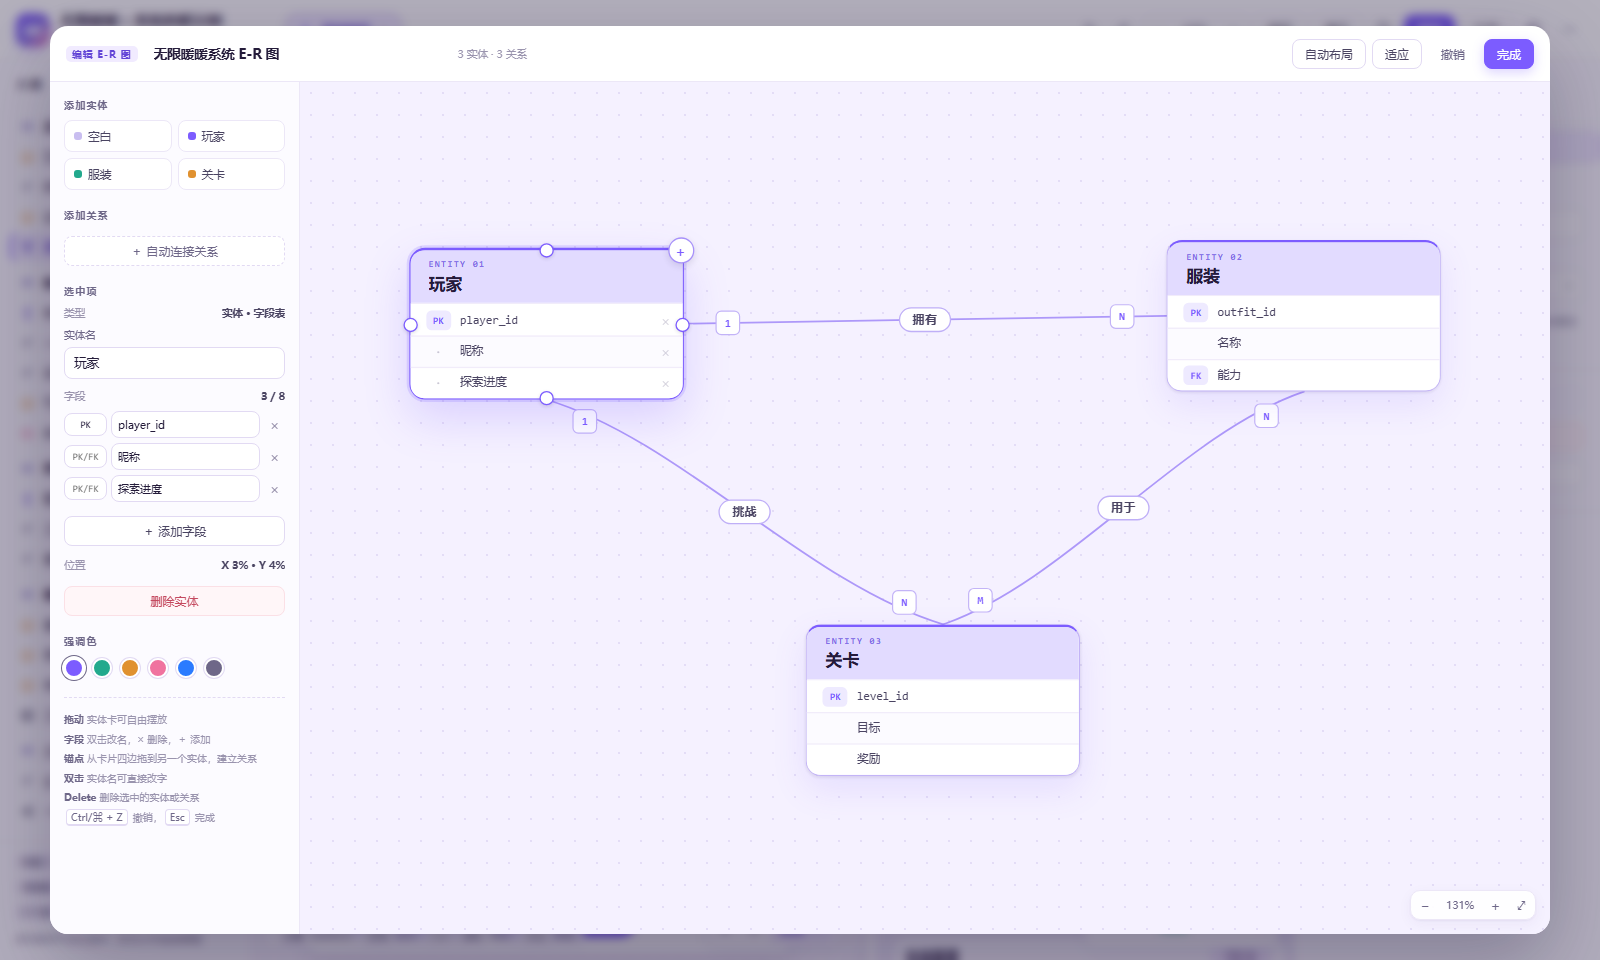
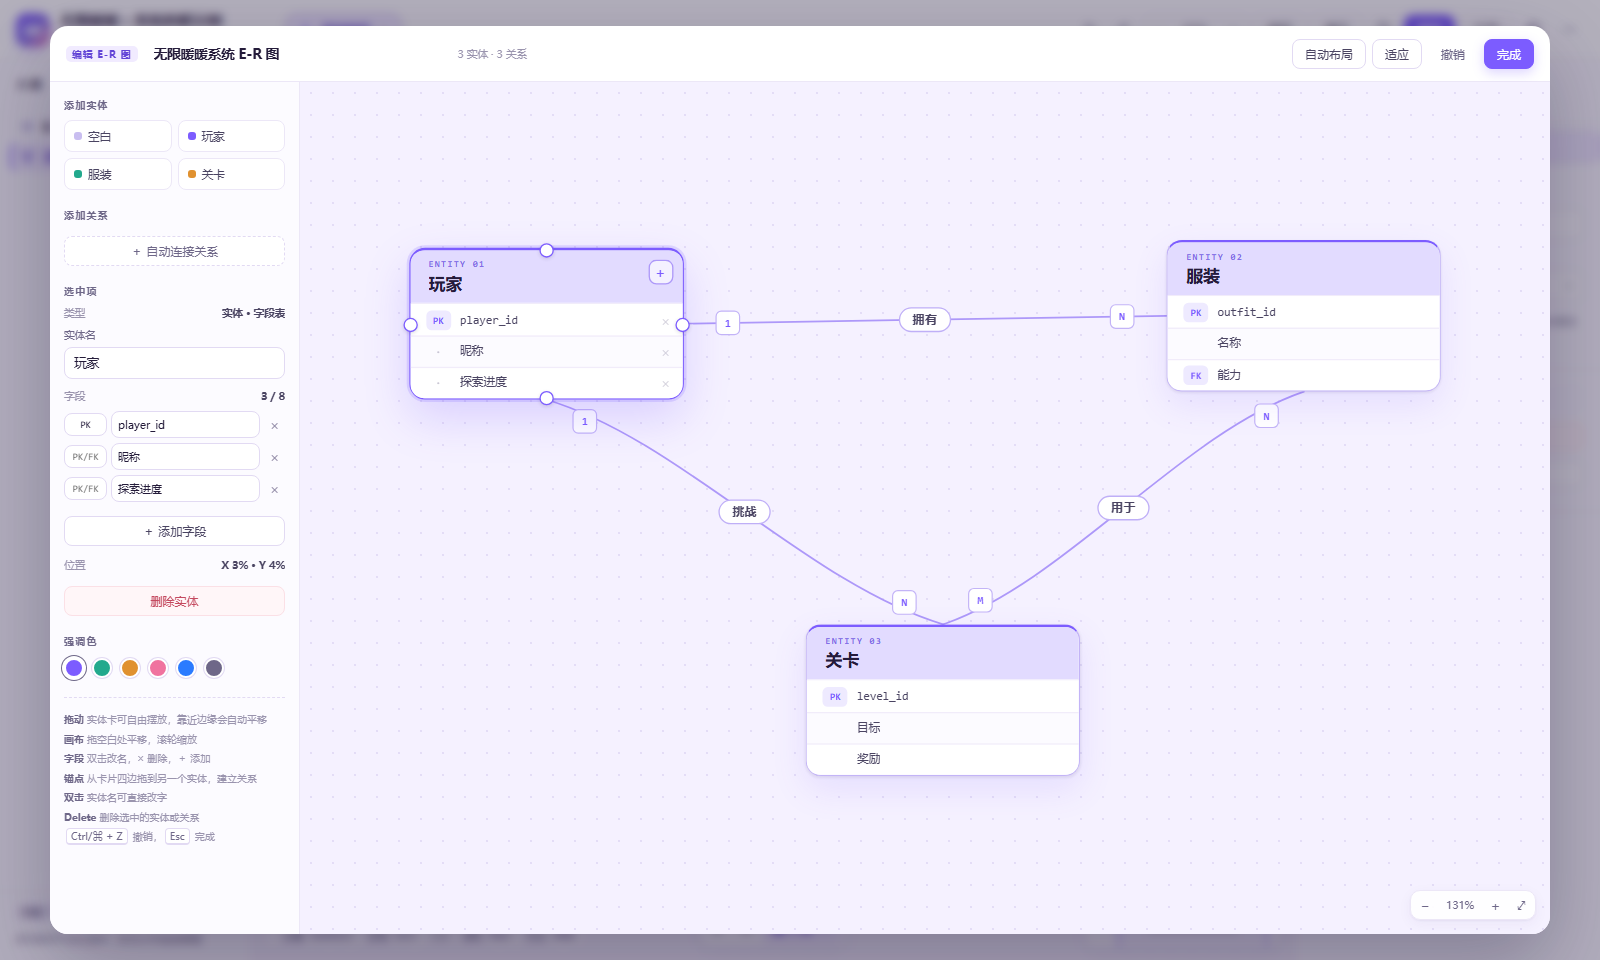
Sync unbounded E-R dragging, viewport follow and card boundary fixes

diff --git a/js/ereditor.js b/js/ereditor.js
@@ -100,8 +100,8 @@ window.EREditor = (function () {
       if (!ent.id) ent.id = 'e' + (i + 1);
       if (!Array.isArray(ent.fields)) ent.fields = [];
       ent.name = String(ent.name == null ? '实体' : ent.name);
-      ent.x = clamp(Number(ent.x) || 0, 0, 100);
-      ent.y = clamp(Number(ent.y) || 0, 0, 100);
+      ent.x = Number.isFinite(Number(ent.x)) ? Number(ent.x) : 0;
+      ent.y = Number.isFinite(Number(ent.y)) ? Number(ent.y) : 0;
     });
     el.relations.forEach((rel, i) => {
       if (!rel.id) rel.id = 'r' + (i + 1);
@@ -716,12 +716,29 @@ window.EREditor = (function () {
         n.classList.add('dragging');
       }
       if (!moved) return;
-      const nx = clamp(startLeft + dx / view.z, 0, W - n.offsetWidth);
-      const ny = clamp(startTop + dy / view.z, 0, H - n.offsetHeight);
+
+      // 世界坐标不设边界；靠近可见画布的边缘时只平移视口，让卡片一直留在视野里，
+      // 因而可以持续向左/右/上/下拖，不会再撞到 920×600 的隐形墙。
+      const nx = startLeft + dx / view.z;
+      const ny = startTop + dy / view.z;
       n.style.left = nx + 'px';
       n.style.top = ny + 'px';
       ent.x = (nx / W) * 100;
       ent.y = (ny / H) * 100;
+
+      const cr = canvasEl.getBoundingClientRect();
+      const EDGE = 76, MARGIN = 24;
+      let vx = view.x, vy = view.y;
+      if (e.clientX < cr.left + EDGE) vx = MARGIN - nx * view.z;
+      else if (e.clientX > cr.right - EDGE) vx = cr.width - MARGIN - n.offsetWidth * view.z - nx * view.z;
+      if (e.clientY < cr.top + EDGE) vy = MARGIN - ny * view.z;
+      else if (e.clientY > cr.bottom - EDGE) vy = cr.height - MARGIN - n.offsetHeight * view.z - ny * view.z;
+      if (vx !== view.x || vy !== view.y) {
+        view.x = vx;
+        view.y = vy;
+        applyView();
+      }
+
       if (raf) cancelAnimationFrame(raf);
       raf = requestAnimationFrame(layoutEdges);
       const pos = propEl?.querySelector('.ere-posrow b');
@@ -1176,7 +1193,8 @@ window.EREditor = (function () {
               ).join('') +
             '</div>' +
             '<div class="fe-hint">' +
-              '<b>拖动</b> 实体卡可自由摆放<br>' +
+              '<b>拖动</b> 实体卡可自由摆放，靠近边缘会自动平移<br>' +
+              '<b>画布</b> 拖空白处平移，滚轮缩放<br>' +
               '<b>字段</b> 双击改名，× 删除，＋ 添加<br>' +
               '<b>锚点</b> 从卡片四边拖到另一个实体，建立关系<br>' +
               '<b>双击</b> 实体名可直接改字<br>' +
@@ -1221,6 +1239,42 @@ window.EREditor = (function () {
     title.addEventListener('blur', () => endNow('er-title'));
   }
 
+  // 编辑画布不限制拖动，实体坐标可以越出 920×600；关闭时把整组实体平移/缩回
+  // 0–100% 的组件画板范围，保证画布上的静态 E-R 图仍能完整显示。
+  function fitPositionsToBoard() {
+    if (!el || !el.entities.length) return false;
+    const CARD_W = 26.5;          // 静态 E-R 卡片宽度占画板比例
+    const PAD = 2.5;
+    const cardH = (ent) => Math.min(80, 11 + ((ent.fields && ent.fields.length) || 0) * 6);
+    let minX = Infinity, minY = Infinity, maxX = -Infinity, maxY = -Infinity;
+    el.entities.forEach((ent) => {
+      const h = cardH(ent);
+      minX = Math.min(minX, ent.x);
+      minY = Math.min(minY, ent.y);
+      maxX = Math.max(maxX, ent.x + CARD_W);
+      maxY = Math.max(maxY, ent.y + h);
+    });
+    const outX = minX < 0 || maxX > 100;
+    const outY = minY < 0 || maxY > 100;
+    if (!outX && !outY) return false;
+
+    const availW = 100 - PAD * 2;
+    const availH = 100 - PAD * 2;
+    const spanX = Math.max(1, maxX - minX);
+    const spanY = Math.max(1, maxY - minY);
+    const scaleX = outX && spanX > availW ? availW / spanX : 1;
+    const scaleY = outY && spanY > availH ? availH / spanY : 1;
+    const offsetX = outX ? PAD - minX * scaleX : 0;
+    const offsetY = outY ? PAD - minY * scaleY : 0;
+
+    begin();
+    el.entities.forEach((ent) => {
+      ent.x = clamp(ent.x * scaleX + offsetX, PAD, 100 - CARD_W - PAD);
+      ent.y = clamp(ent.y * scaleY + offsetY, PAD, Math.max(PAD, 100 - cardH(ent) - PAD));
+    });
+    return true;
+  }
+
   function open(id) {
     const e = Store.el(id);
     if (!e || e.type !== 'er') return;
@@ -1241,7 +1295,8 @@ window.EREditor = (function () {
   function close() {
     if (!overlay) return;
     commitInline(true);
-    endNow('er-close');
+    if (fitPositionsToBoard()) endNow('er-fit');
+    else endNow('er-close');
     window.removeEventListener('keydown', onKeyDown, true);
     overlay.remove();
     overlay = null;

diff --git a/index.html b/index.html
@@ -4,7 +4,7 @@
 <meta charset="UTF-8">
 <meta name="viewport" content="width=device-width, initial-scale=1">
 <title>析境 · 可视化拆解工作台</title>
-<link rel="icon" type="image/x-icon" href="icon.ico?v=86">
+<link rel="icon" type="image/x-icon" href="icon.ico?v=88">
 <meta name="theme-color" content="#F6F3FC">
 <script>
 /* 生效主题要在首帧前落到 <html>，避免闪白 */
@@ -16,8 +16,8 @@
   } catch (e) { document.documentElement.dataset.theme = 'snow'; }
 })();
 </script>
-<link rel="stylesheet" href="css/theme.css?v=86">
-<link rel="stylesheet" href="css/app.css?v=86">
+<link rel="stylesheet" href="css/theme.css?v=88">
+<link rel="stylesheet" href="css/app.css?v=88">
 </head>
 <body>
 
@@ -154,33 +154,33 @@
 
 <div id="toast" class="toast"></div>
 
-<script src="js/util.js?v=86"></script>
-<script src="js/theme.js?v=86"></script>
-<script src="js/nkformat.js?v=86"></script>
-<script src="js/files.js?v=86"></script>
-<script src="js/flowchart.js?v=86"></script>
-<script src="js/statediagram.js?v=86"></script>
-<script src="js/store.js?v=86"></script>
-<script src="js/marks.js?v=86"></script>
-<script src="js/tables.js?v=86"></script>
-<script src="js/component-registry.js?v=86"></script>
-<script src="js/advanced-components.js?v=86"></script>
-<script src="js/groups.js?v=86"></script>
-<script src="js/render.js?v=86"></script>
-<script src="js/canvas.js?v=86"></script>
-<script src="js/boards.js?v=86"></script>
-<script src="js/panels.js?v=86"></script>
-<script src="js/component-library.js?v=86"></script>
-<script src="js/floweditor.js?v=86"></script>
-<script src="js/ereditor.js?v=86"></script>
-<script src="js/stateeditor.js?v=86"></script>
-<script src="js/imgeditor.js?v=86"></script>
-<script src="js/texteditor.js?v=86"></script>
-<script src="js/tableeditor.js?v=86"></script>
-<script src="js/cardeditor.js?v=86"></script>
-<script src="js/advanced-editor.js?v=86"></script>
-<script src="js/mdexport.js?v=86"></script>
-<script src="js/newdoc.js?v=86"></script>
-<script src="js/app.js?v=86"></script>
+<script src="js/util.js?v=88"></script>
+<script src="js/theme.js?v=88"></script>
+<script src="js/nkformat.js?v=88"></script>
+<script src="js/files.js?v=88"></script>
+<script src="js/flowchart.js?v=88"></script>
+<script src="js/statediagram.js?v=88"></script>
+<script src="js/store.js?v=88"></script>
+<script src="js/marks.js?v=88"></script>
+<script src="js/tables.js?v=88"></script>
+<script src="js/component-registry.js?v=88"></script>
+<script src="js/advanced-components.js?v=88"></script>
+<script src="js/groups.js?v=88"></script>
+<script src="js/render.js?v=88"></script>
+<script src="js/canvas.js?v=88"></script>
+<script src="js/boards.js?v=88"></script>
+<script src="js/panels.js?v=88"></script>
+<script src="js/component-library.js?v=88"></script>
+<script src="js/floweditor.js?v=88"></script>
+<script src="js/ereditor.js?v=88"></script>
+<script src="js/stateeditor.js?v=88"></script>
+<script src="js/imgeditor.js?v=88"></script>
+<script src="js/texteditor.js?v=88"></script>
+<script src="js/tableeditor.js?v=88"></script>
+<script src="js/cardeditor.js?v=88"></script>
+<script src="js/advanced-editor.js?v=88"></script>
+<script src="js/mdexport.js?v=88"></script>
+<script src="js/newdoc.js?v=88"></script>
+<script src="js/app.js?v=88"></script>
 </body>
 </html>

diff --git a/css/app.css b/css/app.css
@@ -2527,8 +2527,8 @@ body.present .boardbar, body.present .bb-panel, body.present .bb-menu { display:
   box-shadow: 0 0 0 4px color-mix(in srgb, var(--adv-accent) 24%, transparent),
               0 18px 38px color-mix(in srgb, var(--adv-accent) 24%, transparent);
 }
-.ere-node .er-entity-head { border-radius: 10px 10px 0 0; }
-.ere-node .er-fields { border-radius: 0 0 10px 10px; }
+.ere-node .er-entity-head { border-radius: 10px 10px 0 0; padding-right: 34px; }
+.ere-node .er-fields { border-radius: 0 0 10px 10px; overflow: hidden; }
 .ere-node .er-entity-name { cursor: text; }
 .ere-node .er-entity-name.editing {
   outline: 1px dashed var(--adv-accent); outline-offset: 2px;
@@ -2559,17 +2559,17 @@ body.present .boardbar, body.present .bb-panel, body.present .bb-menu { display:
 .ere-node .er-field:hover .er-field-del, .ere-node .er-field:focus-within .er-field-del { opacity: 1; }
 .ere-node .er-field-del:hover { background: var(--danger-soft); color: var(--danger-d); }
 .er-field-add {
-  position: absolute; z-index: 7; top: -10px; right: -9px; width: 20px; height: 20px; padding: 0;
+  position: absolute; z-index: 7; top: 7px; right: 7px; width: 19px; height: 19px; padding: 0;
   display: inline-flex; align-items: center; justify-content: center;
-  border: 1px solid color-mix(in srgb, var(--adv-accent) 58%, var(--line-2));
-  border-radius: 50%; background: var(--surface); color: var(--adv-accent);
+  border: 1px solid color-mix(in srgb, var(--adv-accent) 52%, var(--line-2));
+  border-radius: 6px; background: color-mix(in srgb, var(--surface) 62%, transparent);
+  color: var(--adv-accent);
   font: inherit; font-size: 11px; font-weight: 700; line-height: 1; cursor: pointer;
-  box-shadow: 0 2px 6px color-mix(in srgb, var(--ink) 12%, transparent);
-  opacity: 0; pointer-events: none; transform: translateY(2px);
-  transition: opacity .12s, transform .12s, background .12s, color .12s;
+  opacity: 0; pointer-events: none;
+  transition: opacity .12s, background .12s, color .12s, border-color .12s;
 }
-.ere-node:hover .er-field-add, .ere-node.sel .er-field-add { opacity: 1; pointer-events: auto; transform: none; }
-.er-field-add:hover { background: var(--adv-accent); color: #fff; }
+.ere-node:hover .er-field-add, .ere-node.sel .er-field-add { opacity: 1; pointer-events: auto; }
+.er-field-add:hover { background: var(--adv-accent); border-color: var(--adv-accent); color: #fff; }
 .ere-no-fields { padding: 8px 12px; color: var(--muted); font-size: 9px; }
 
 /* 四边锚点 */

diff --git a/组件升级策划.md b/组件升级策划.md
@@ -15,6 +15,10 @@
 > 2026-11-24 改版：E-R 编辑窗口由单栏卡片式改为**流程图式全屏画布**——顶栏标题 / 自动布局 / 适应 / 撤销 / 完成，左侧添加实体与选中项属性，右侧点阵画布支持拖动实体、四边锚点连线、双击行内改名和右下缩放；资源版本提升到 `?v=85`。
 >
 > 2026-11-24 增强：E-R 实体卡字段支持**行内增删改**——双击字段名改名、卡头 `＋` 添加字段、行尾 `×` 删除字段、点击 `PK / FK` 标记循环切换；左侧字段属性实时同步。资源版本提升到 `?v=86`。
+>
+> 2026-11-26 修复：E-R 实体卡的 `＋` 添加按钮收进卡片内部，字段区按底部圆角裁切，修复添加按钮压在外框、字段背景越过卡片圆角的边界问题；资源版本提升到 `?v=87`。
+>
+> 2026-11-26 修复：E-R 编辑画布去掉 920×600 世界边界，实体可以拖出原来的 0–100% 范围，拖到可见画布边缘时视口跟随平移；关闭编辑器时整组坐标自动收拢到组件画板，静态 E-R 图不会被裁切；`test-er.js` 增至 85 项。资源版本提升到 `?v=88`。
 
 ## 一、结论先行
 
@@ -196,7 +200,7 @@
 - 图片 / 视频：远程媒体保留链接；内嵌 data / blob 媒体只保留标题和说明；
 - 全部 23 类组件都有对应的 Markdown 语义，不会落到「未知组件 / 原始 JSON」兜底；E-R 图额外输出实体字段表、关系表与「起点（基数）—关系→ 终点（基数）」读法。
 
-**实现**：`js/mdexport.js`（`window.MDExport.build(doc)` 纯函数），`js/app.js` 只负责文件名与下载。新增 `test-mdexport.js` 32 项通过，覆盖 23 类组件构造、分组去重、Mermaid、表格转义、媒体与真实菜单下载；连同六套回归共 362 项通过。
+**实现**：`js/mdexport.js`（`window.MDExport.build(doc)` 纯函数），`js/app.js` 只负责文件名与下载。新增 `test-mdexport.js` 32 项通过，覆盖 23 类组件构造、分组去重、Mermaid、表格转义、媒体与真实菜单下载；连同六套回归当时共 362 项通过。
 
 ## 十三、E-R 图组件（P4）
 
@@ -227,4 +231,4 @@
 - `css/app.css`：复用流程图 `.fe-*` 外壳，新增 `.ere-node / .ere-port / .ere-edge / .ere-fieldlist` 等编辑器样式；
 - `js/mdexport.js`：第 23 类 Markdown 语义，输出实体字段表、关系表、关系读法，不输出坐标。
 
-**验证**：`test-er.js` 扩为 83 项通过，覆盖全屏布局、画布节点 / 关系线、拖动、字段与关系增删改、卡片字段行内增删改与 `PK / FK` 循环、锚点拖线、行内改名、自动布局、缩放、撤销、完成写回、画布编辑入口、Markdown 与组件库入口；`test-adv-editor.js` 调整为 9 类编辑窗口、72 项通过。其余 `test-p23.js` 69 项、`test.js` 33 项、`test-regression.js` 16 项、`test-redesign.js` 57 项、`test-mdexport.js` 32 项，合计 **362 项通过**。资源版本提升到 `?v=86`。
+**验证**：`test-er.js` 扩为 85 项通过，覆盖全屏布局、画布节点 / 关系线、拖动、字段与关系增删改、卡片字段行内增删改与 `PK / FK` 循环、锚点拖线、行内改名、自动布局、缩放、撤销、完成写回、无边界拖动与关闭收拢、画布编辑入口、Markdown 与组件库入口；`test-adv-editor.js` 调整为 9 类编辑窗口、72 项通过。其余 `test-p23.js` 69 项、`test.js` 33 项、`test-regression.js` 16 项、`test-redesign.js` 57 项、`test-mdexport.js` 32 项，合计 **364 项通过**。资源版本提升到 `?v=88`。

diff --git a/使用说明.md b/使用说明.md
@@ -69,7 +69,7 @@
 >
 > P2/P3 的图解与容器组件使用**单栏可视化编辑窗口**：点「编辑」或属性面板里的「打开完整编辑窗口…」后，窗口里直接呈现真实组件卡片，**整张卡片就是编辑区**——点标题 / 日期 / 节点文字 / 正文即可直接改；顶部工具条负责加节点 / 点位、切方向 / 形态 / 栏数 / 语义类型、调色彩、填视频 URL 或上传本地媒体。时间轴 / 层级图 / 循环图的节点可拖动排序，矩阵点位可直接拖动改 X/Y。点「完成」写回画布，`Esc` 取消。分组框成员以可移出的小卡呈现；视频 / GIF 支持 URL 和 ≤2MB 本地文件。画布双击和右侧属性面板保留快速编辑入口。
 >
-> E-R 图使用独立的**流程图式全屏画布编辑器**：顶部标题与「自动布局 / 适应 / 撤销 / 完成」，左侧「添加实体」和当前选中项的实体字段 / 关系参数，右侧大块点阵画布与右下缩放条。实体卡可自由拖动；从卡片四边锚点拖到另一个实体即可建立关系；双击实体名可直接改字，字段也能在卡片上直接编辑：双击字段名改名、卡头 `＋` 添加、行尾 `×` 删除、点击 `PK / FK` 标记循环切换，左侧属性同步。关系名 / 起点 / 终点 / 基数在左侧修改。所有改动实时可撤销，完成或 `Esc` 关闭并写回画布。
+> E-R 图使用独立的**流程图式全屏画布编辑器**：顶部标题与「自动布局 / 适应 / 撤销 / 完成」，左侧「添加实体」和当前选中项的实体字段 / 关系参数，右侧大块点阵画布与右下缩放条。实体卡**没有画布边界**，可以拖出原来的 0–100% 范围，拖到可见画布边缘时视口会自动跟随平移；拖动空白处也能平移，滚轮缩放。从卡片四边锚点拖到另一个实体即可建立关系；双击实体名可直接改字，字段也能在卡片上直接编辑：双击字段名改名、卡头 `＋` 添加、行尾 `×` 删除、点击 `PK / FK` 标记循环切换，左侧属性同步。关系名 / 起点 / 终点 / 基数在左侧修改。所有改动实时可撤销；完成或 `Esc` 关闭时坐标自动收拢到组件画板，静态 E-R 图不会被裁切。
 >
 > 分组框：先框选或 `Ctrl / Shift` 多选多个组件，在右侧属性面板点「组合为分组框」；之后拖动分组框标题或框内空白处会整体移动，删除分组框只删除外面的框，子组件保留。要追加组件时，关闭编辑窗口，把分组框和要加入的组件一起多选，再点一次「组合为分组框」。
 >
